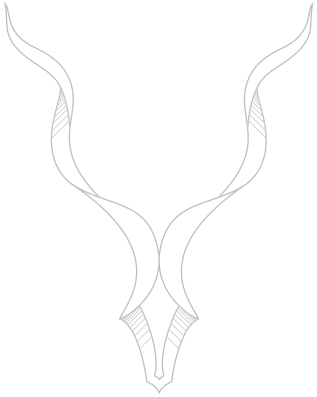
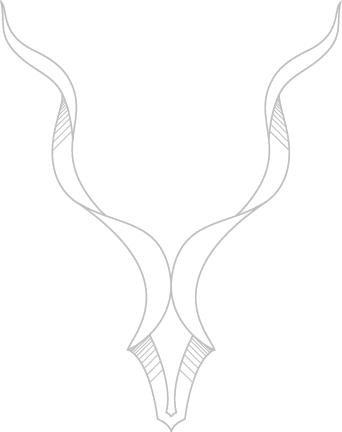
Fashion Page - styling

diff --git a/source/stylesheets/industry/_fashion.scss b/source/stylesheets/industry/_fashion.scss
@@ -4,128 +4,173 @@ body.fashion {
   .top-background {
     background-image: image-url("page_fashion/blue_flower2.jpg");
   }
+  .portfolio-text-insert {
+    color: #76787a;
+    h2 {
+      font-family: 'Gotham A', 'Gotham B';
+      text-transform: uppercase;
+      margin-top: 50px;
+      margin-bottom: 25px;
+      font-size: 20px;
+      letter-spacing: 5px;
+    }
+      p {
+        font-size: 14px;
+      }
+  }
   .content {
-    .image-container {
-      position: relative;
-      padding-top: 444.44%;
-      img {
-        position: absolute;
-      }
-      #heidi {
-        width: 85.2%;
-        top: 1.1%;
-        left: 7.3%;
-      }
-      #lineup {
-        width: 61%;
-        top: 4.33%;
-        left: 0;
-      }
-      #lineup-2 {
-        width: 61%;
-        top: 4.33%;
-        right: 0;
-      }
-      #sl-imac {
-        width: 42.71%;
-        top: 2.3%;
-        left: 27.81%;
-      }
-      #four-pics {
-        width: 31.875%;
-        top: 10.47%;
-        right: 9%;
-      }
-  		#lineup-3 {
-        width: 46.95%;
-        top: 14.61%;
-  			left: 9%;
-  		}
-      #velvet-computers {
-        width: 64.81%;
-        top: 18.9%;
-        left: 18.31%;
-      }
-  		#velvetsquare {
-        width: 27.96%;
-        top: 18.47%;
-        left: 10%
-      }
-  		#woman {
-  			width: 43.96%;
-        top: 33.67%;
-        left: 10%
-  		}
-  		#summer {
-        width: 56.67%;
-			  top: 28.05%;
-			  right: 0;
-  		}
-  		#rings {
-        width: 36.17%;
-        top: 34.75%;
-        right: 7%;
-  		}
-      #thing {
-        width: 19.17%;
-        top: 30.65%;
-        right: 13.25%;
-      }
-      #th {
-        width: 100%;
-        top: 50.9%;
-        left: 0%;
-      }
-      #boxset { 
-        width: 43.7%;
-        top: 42.1%;
-        left: 19.5%;
-      }
-      #woman2 { 
-        width: 15.7%;
-        top: 40%;
-        right: 8.5%;
-      }
-      #th-trophy {
-        width: 27.17%;
-        top: 66.27%;
-        left: 7.81%;
-      }
-  		#th-logo {
-        width: 27.94%;
-        top: 61.57%;
-        right: 15%;
-  		}
-      #th-rings2 {
-        width: 52.14%;
-        top: 68.27%;
-        right: 6%;
-      }
-      #th-devices {
-        width: 79.94%;
-        top: 69.17%;
-        right: 11%;
-      }
-      #gh-book {
-        width: 34.94%;
-        top: 81.87%;
-        left: 12.5%;
-      }
-      #gh-tag1 {
-        width: 29.94%;
-        top: 79.27%;
-        right: 9.6%;
-      }
-      #gh-tag2 {
-        width: 29.94%;
-        top: 83.47%;
-        right: 9.6%;
-      }
-      #gh-banner {
-        width: 100%;
-        top: 87.07%;
-        left: 0;
-      }
-  	}
+    .image-container-heidi {
+          position: relative;
+          padding-top: 50.44%;
+          img {
+            position: absolute;
+          }
+          #heidi {
+            width: 85.2%;
+            top: 4%;
+            left: 7.3%;
+          }
+          #lineup {
+            width: 54%;
+            top: 30%;
+            left: 0;
+          }
+          #lineup-2 {
+            width: 54%;
+            top: 30%;
+            right: 0;
+          }
+          #sl-imac {
+            width: 42.71%;
+            left: 27.81%;
+            top: 14.8%;
+          }
+        }
+    
+        .image-container-velvet {
+          position: relative;
+          padding-top: 85.44%;
+          img {
+            position: absolute;
+          }
+          #four-pics {
+            width: 33%;
+            top: -20%;
+            right: 2%; 
+          }
+          #lineup-3 {
+            width: 44%;
+            top: 6%;
+            left: 6%;
+          }
+          #velvet-computers {
+            width: 64.81%;
+            top: 32%;
+            left: 18%;
+          }
+          #velvetsquare {
+            width: 27.96%;
+            top: 27%;
+            left: 7%;
+          }
+	  	  #summer {
+	        width: 57%;
+	        top: 80%;
+	        right: 0;
+	  	  }
+        }
+        .image-container-good {
+          position: relative;
+          padding-top: 120.44%;
+          margin-bottom: 200px;
+          img {
+            position: absolute;
+          }
+          #woman {
+          	width: 43.96%;
+          	top: 5%;
+          	left: 8%;
+          }
+          #rings {
+            width: 35%;
+            top: 10%;
+            right: 5%;
+          		}
+          #thing {
+            width: 18%;
+            top: -12%;
+            right: 10%;
+          }
+          #th {
+            width: 100%;
+            top: 72%;
+            left: 0%;
+          }
+          #boxset { 
+            width: 50%;
+            top: 35%;
+            left: 19.5%;
+          }
+          #woman2 { 
+            width: 18%;
+            top: 28%;
+            right: 4%;
+          }
+        }
+        .image-container-th {
+          position: relative;
+          padding-top: 65.44%;
+          margin-bottom: 180px;
+          img {
+            position: absolute;
+          }
+          #th-trophy {
+            width: 30%;
+            top: 27%;
+            left: 7.81%;
+          }
+          #th-logo {
+            width: 21%;
+            top: -10%;
+            right: 8%;
+          }
+          #th-rings2 {
+            width: 52.14%;
+            top: 35%;
+            right: 4%;
+          }
+          #th-devices {
+            width: 79.94%;
+            top: 47%;
+            right: 11%;
+          }
+        }
+        .image-container-gh {
+          position: relative;
+          padding-top: 90.44%;
+          img {
+            position: absolute;
+          }
+          #gh-book {
+            width: 30%;
+            top: 22%;
+            left: 9%;
+          }
+          #gh-tag1 {
+            width: 29.94%;
+            right: 8%;
+            top: 22.2%;
+          }
+          #gh-tag2 {
+            width: 29.94%;
+            top: 2%;
+            right: 8%;
+          }
+          #gh-banner {
+            width: 100%;
+            top: 41%;
+            left: 0;
+          }
+        }
   }
 }
